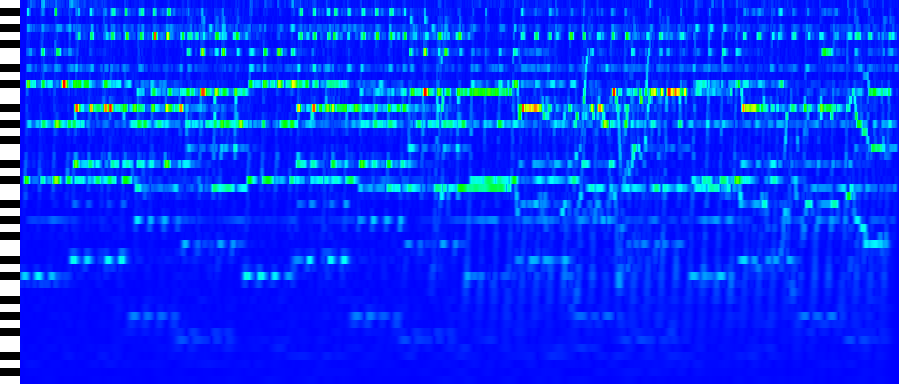
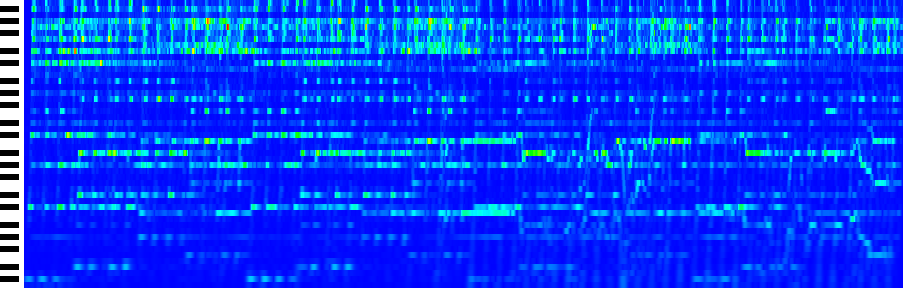
Beautify piano roll output

diff --git a/src/utils/visualization.rs b/src/utils/visualization.rs
@@ -141,10 +141,10 @@ fn transform_to_image(transform: &[Vec<Complex<FloatType>>],
     let max = find_max(&sampled, &std::convert::identity);
     let mut resized_data = Vec::with_capacity(new_height * new_width * 3);
     for i in 0..new_height {
-        (0..piano_roll_length).for_each(|_| {
+        (0..piano_roll_length).for_each(|k| {
             let frequency = frequencies[frequencies.len() - 1 - (i / (visualization_parameters.pixels_per_frequency as usize))];
             let note = ((12.0 * (frequency / 16.35).log2()) % 12.0).round() as i32;
-            if note == 1 || note == 3 || note == 6 || note == 8 || note == 10 {
+            if k < (piano_roll_length as f32 * 0.8) as usize && (note == 1 || note == 3 || note == 6 || note == 8 || note == 10) {
                 resized_data.push(0);
                 resized_data.push(0);
                 resized_data.push(0);

diff --git a/src/main.rs b/src/main.rs
@@ -19,11 +19,11 @@ mod utils;
 #[derive(Parser)]
 #[command(version, about, long_about = None)]
 struct Cli {
-    /// Input wav file path
+    /// Input file path (only .wav, .mp3)
     #[arg(short, long)]
     input: String,
 
-    /// Output image file (png) path
+    /// Output image file path (only .png)
     #[arg(short, long)]
     output: Option<String>,
 

diff --git a/README.md b/README.md
@@ -8,15 +8,11 @@ supports converting wav files into a .png image that contains its wavelet transf
 In the beginning, the focus will be on music files (and streams), using the continuous wavelet transform (CWT) to
 extract music sheets.
 
-## Examples
+## Examples (with piano roll)
 
 A random piano sample:
 
 ![piano](outputs/piano.png)
-
-With 3 frequencies per note:
-
-![piano-3freq](outputs/piano-transform.png)
 
 A Coldplay song:
 
@@ -40,9 +36,9 @@ Usage: subtune [OPTIONS] --input <INPUT>
 
 Options:
   -i, --input <INPUT>
-          Input wav file path
+          Input file path (only .wav, .mp3)
   -o, --output <OUTPUT>
-          Output image file (png) path
+          Output image file path (only .png)
   -n, --num-octaves <NUM_OCTAVES>
           Number of octaves to analyze, default 9
   -s, --start-octave <START_OCTAVE>
